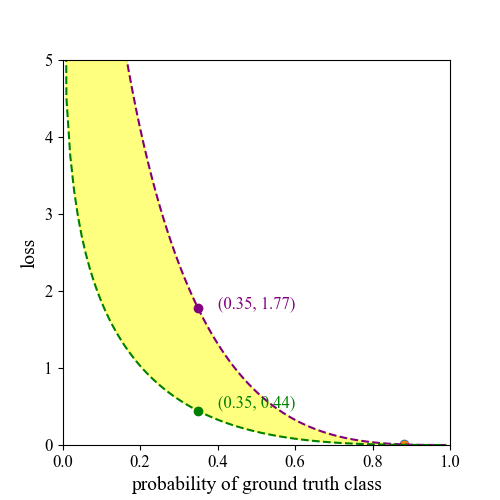
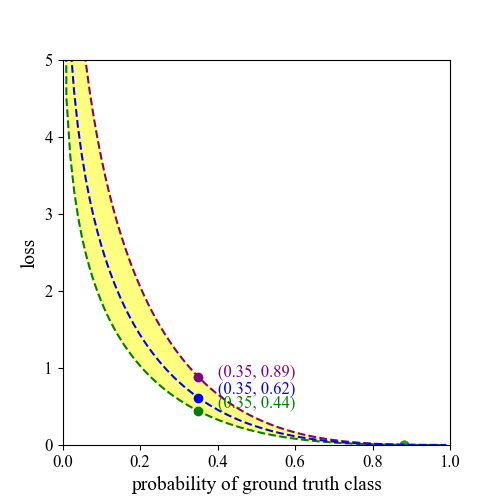
bfl_function_vis_code
adding 0.5 sigma

Changed region(s): [[0.12, 0.12, 0.84, 0.9], [0.57, 0.6, 0.6, 0.63], [0.27, 0.66, 0.3, 0.69]]

diff --git a/image_task/image_preprocessing/my_function.py b/image_task/image_preprocessing/my_function.py
@@ -168,23 +168,30 @@ p1 = 0.35
 p2 = 0.88
 sig1 = 0
 sig2 = 1.0
+sig3 = 0.5
 
 # 가중치 슬로프 더 크게 slop 승수가 높을수록 sigma 0에서 큰 값을 가짐
-slop = 2
+slop = 1
 
+# w1 = (((1 / np.exp(sig1)) + 1) ** slop) * ((1 - (sig1 / (np.exp(1) + 1))) ** slop)
+# w2 = (((1 / np.exp(sig2)) + 1) ** slop) * ((1 - (sig2 / (np.exp(1) + 1))) ** slop)
 w1 = (((1 / np.exp(sig1)) + 1) ** slop) * ((1 - (sig1 / (np.exp(1) + 1))) ** slop)
 w2 = (((1 / np.exp(sig2)) + 1) ** slop) * ((1 - (sig2 / (np.exp(1) + 1))) ** slop)
+w3 = (((1 / np.exp(sig3)) + 1) ** slop) * ((1 - (sig3 / (np.exp(1) + 1))) ** slop)
 
 print(w1, w2)
 
 focal = [(-(1-num)**2*math.log(num)) for num in x]
 erfl_sig1 = [(-w1*(1-num)**2*math.log(num)) for num in x]
 erfl_sig2 = [(-w2*(1-num)**2*math.log(num)) for num in x]
+erfl_sig3 = [(-w3*(1-num)**2*math.log(num)) for num in x]
 ce = [-1*math.log(num) for num in x]
 erfl_dot = -w1*(1-p2)**2*math.log(p2)
 erfl_dot2 = -w2*(1-p1)**2*math.log(p1)
+erfl_dot5 = -w3*(1-p1)**2*math.log(p1)
 erfl_dot3 = -w1*(1-p1)**2*math.log(p1)
 erfl_dot4 = -w2*(1-p2)**2*math.log(p2)
+erfl_dot6 = -w3*(1-p2)**2*math.log(p2)
 ce_dot = -1*math.log(p1)
 
 fontdict={'fontname': 'Times New Roman',
@@ -198,12 +205,16 @@ ax.set_ylim([0.0, 5])
 
 ax.plot(x, erfl_sig1, c='purple', linestyle='dashed')
 ax.plot(x, erfl_sig2, c='green', linestyle='dashed')
+ax.plot(x, erfl_sig3, c='blue', linestyle='dashed')
 ax.fill_between(x, erfl_sig1, erfl_sig2, color='yellow', alpha=0.5)
 ax.scatter(p1, erfl_dot2, c="green")
+ax.scatter(p1, erfl_dot5, c="blue")
 ax.scatter(p1, erfl_dot3, c="purple")
 ax.scatter(p2, erfl_dot)
 ax.scatter(p2, erfl_dot4)
+ax.scatter(p2, erfl_dot6)
 ax.text(p1+0.05, erfl_dot2+0.05, s= str((p1, round(erfl_dot2, 2))), c='green')
+ax.text(p1+0.05, erfl_dot5+0.05, s= str((p1, round(erfl_dot5, 2))), c='blue')
 ax.text(p1+0.05, erfl_dot3, s= str((p1, round(erfl_dot3, 2))), c='purple')
 # 축제목
 ax.set_xlabel("probability of ground truth class", **fontdict)
